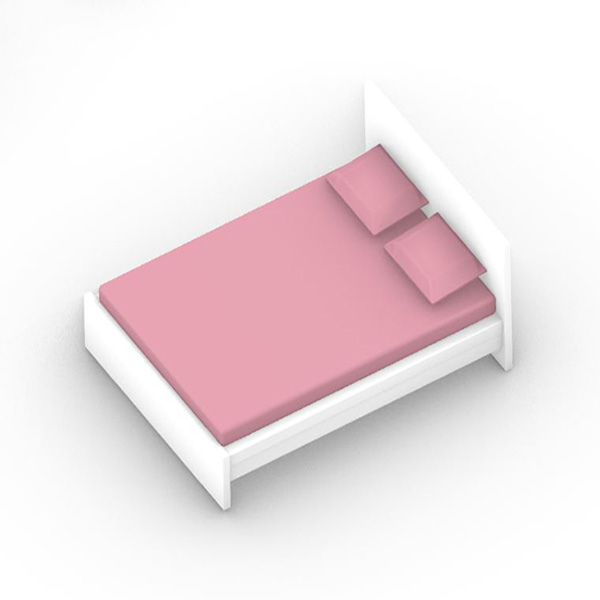
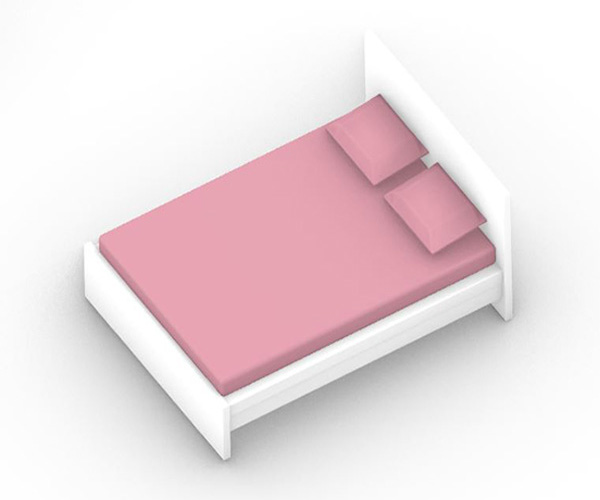
3D scene added with R3F

Changed region(s): [[0.12, 0.51, 0.87, 0.96], [0.21, 0.18, 0.81, 0.48], [0.15, 0.45, 0.21, 0.48]]

diff --git a/src/index.html b/src/index.html
@@ -30,7 +30,7 @@
           </button>
         </div>
         <div class="home_image">
-          <img src="./images/home.png" alt="home_image" />
+          <img src="./images/cover.gif" alt="home_image" />
         </div>
       </div>
     </section>
@@ -117,15 +117,15 @@
             class="arrow"
             src="./images/arrow_right.JPG"
             alt="arrow_right"
-            onclick="showSection('create_room')"
+            onclick="showSection('your_own_space'); showSidebar('create_room')"
           />
         </div>
       </div>
     </section>
 
-    <section id="create_room" class="content">
+    <section id="your_own_space" class="content">
       <div class="container">
-        <div class="sidebar">
+        <aside id="create_room" class="sidebar">
           <div>
             <div class="sidebar_header">
               <h3>Step 1: Create Your Room</h3>
@@ -183,18 +183,12 @@
             </div>
           </div>
 
-          <button class="button_yellow" onclick="showSection('add_furniture')">
+          <button class="button_yellow" onclick="showSidebar('add_furniture')">
             Next
           </button>
-        </div>
-        <!-- This section renders 3d models -->
-        <div class="canvas"></div>
-      </div>
-    </section>
+        </aside>
 
-    <section id="add_furniture" class="content">
-      <div class="container">
-        <div class="sidebar">
+        <aside id="add_furniture" class="sidebar">
           <div>
             <div class="sidebar_header">
               <h3>Step 2: Add Furniture</h3>
@@ -220,18 +214,12 @@
             </div>
           </div>
 
-          <button class="button_yellow" onclick="showSection('preference')">
+          <button class="button_yellow" onclick="showSidebar('preference')">
             Next
           </button>
-        </div>
-        <!-- This section renders 3d models -->
-        <div class="canvas"></div>
-      </div>
-    </section>
+        </aside>
 
-    <section id="preference" class="content">
-      <div class="container">
-        <div class="sidebar">
+        <aside id="preference" class="sidebar">
           <div>
             <div class="sidebar_header">
               <h3>Step 3: Choose Preference</h3>
@@ -263,18 +251,12 @@
             </div>
           </div>
 
-          <button class="button_yellow" onclick="showSection('result')">
+          <button class="button_yellow" onclick="showSidebar('result')">
             Next
           </button>
-        </div>
-        <!-- This section renders 3d models -->
-        <div class="canvas"></div>
-      </div>
-    </section>
+        </aside>
 
-    <section id="result" class="content">
-      <div class="container">
-        <div class="sidebar">
+        <aside id="result" class="sidebar">
           <div>
             <div class="sidebar_header">
               <h3>Step 4: Pick the Layout</h3>
@@ -293,10 +275,13 @@
           <button class="button_blue" onclick="showSection('quiz-1')">
             Take Quiz
           </button>
-        </div>
+        </aside>
+
         <!-- This section renders 3d models -->
-        <div class="canvas"></div>
+        <div id="root"></div>
       </div>
     </section>
+
+    <section id="quiz" class="content"></section>
   </body>
 </html>

diff --git a/src/styles.css b/src/styles.css
@@ -3,17 +3,17 @@
 }
 
 html,
-body,
-#root {
-  position: fixed;
-  top: 0;
-  left: 0;
-  width: 100%;
-  height: 100%;
+body {
+  font-family: Helvetica, sans-serif;
   margin: 0;
   padding: 0;
-  font-family: Helvetica, sans-serif;
-  background: white;
+}
+
+#root {
+  margin: 0;
+  padding: 0;
+  width: 60%;
+  background-color: #f5f5f5;
 }
 
 /* Style universal tags */
@@ -38,15 +38,15 @@ h4 {
   font-weight: 500;
 }
 
-#root {
-  z-index: -1;
-}
-
 /* Style the navbar */
 .navbar {
   display: flex;
+  justify-content: left;
+  column-gap: 3rem;
+  align-items: center;
+  min-height: 50px;
   background-color: #fafafa;
-  height: 3vh;
+  height: 60px;
 }
 
 /* Navbar links */
@@ -65,15 +65,7 @@ h4 {
   }
 }
 
-/* Flexbox styles */
-.navbar {
-  justify-content: left;
-  column-gap: 3rem;
-  align-items: center;
-  min-height: 50px;
-}
-
-/* Contetns */
+/* Contents */
 .content {
   display: none;
 }
@@ -142,17 +134,15 @@ h4 {
   }
 }
 
-#create_room,
-#add_furniture,
-#preference,
-#result {
+/* Your_own_space section with Sidebars */
+#your_own_space {
   & .container {
     display: flex;
     height: 95vh;
   }
 
   & .sidebar {
-    display: flex;
+    display: none;
     flex-direction: column;
     justify-content: space-between;
     align-items: center;
@@ -247,12 +237,6 @@ h4 {
     & .slider {
       width: 60%;
     }
-  }
-
-  & .canvas {
-    padding: 1rem;
-    width: 60%;
-    background-color: #f5f5f5;
   }
 }
 

diff --git a/src/app.js b/src/app.js
@@ -12,7 +12,19 @@ function showSection(sectionId) {
   }
 }
 
-function highlightSelectedMenu(selector) {
+function showSidebar(sidebarId) {
+  // Hide all sidebars
+  const sidebars = document.querySelectorAll(".sidebar");
+  sidebars.forEach((sidebar) => {
+    sidebar.style.display = "none";
+  });
+
+  // Show the selected sidebar
+  const activeSidebar = document.getElementById(sidebarId);
+  activeSidebar.style.display = "flex";
+}
+
+function highlightSelectedMenu(menuId) {
   // Unhighlight all menus
   const menus = document.querySelectorAll(".optimization_preference");
   menus.forEach((menu) => {
@@ -20,7 +32,7 @@ function highlightSelectedMenu(selector) {
   });
 
   // Highlight selected menu
-  const selectedMenu = document.getElementsByClassName(selector)[0];
+  const selectedMenu = document.getElementsByClassName(menuId)[0];
   if (selectedMenu) {
     selectedMenu.classList.add("selected");
   }

diff --git a/src/Experience.jsx b/src/Experience.jsx
@@ -18,12 +18,12 @@ export default function Experience() {
       />
       <ambientLight intensity={0.5} />
 
-      {/* <primitive
+      <primitive
         object={bed.scene}
         scale={0.05}
-        position={[3, 0, -3]}
+        position={[0, 0, 0]}
         meshStandardMaterial
-      /> */}
+      />
     </>
   );
 }
